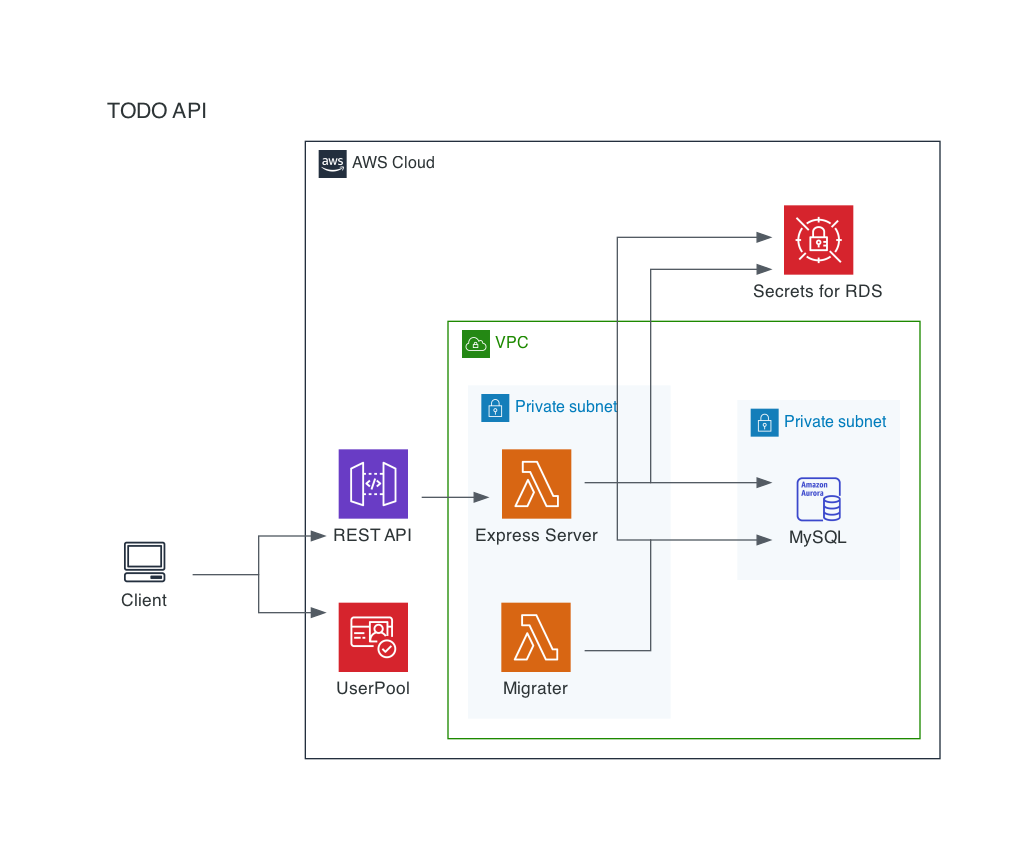
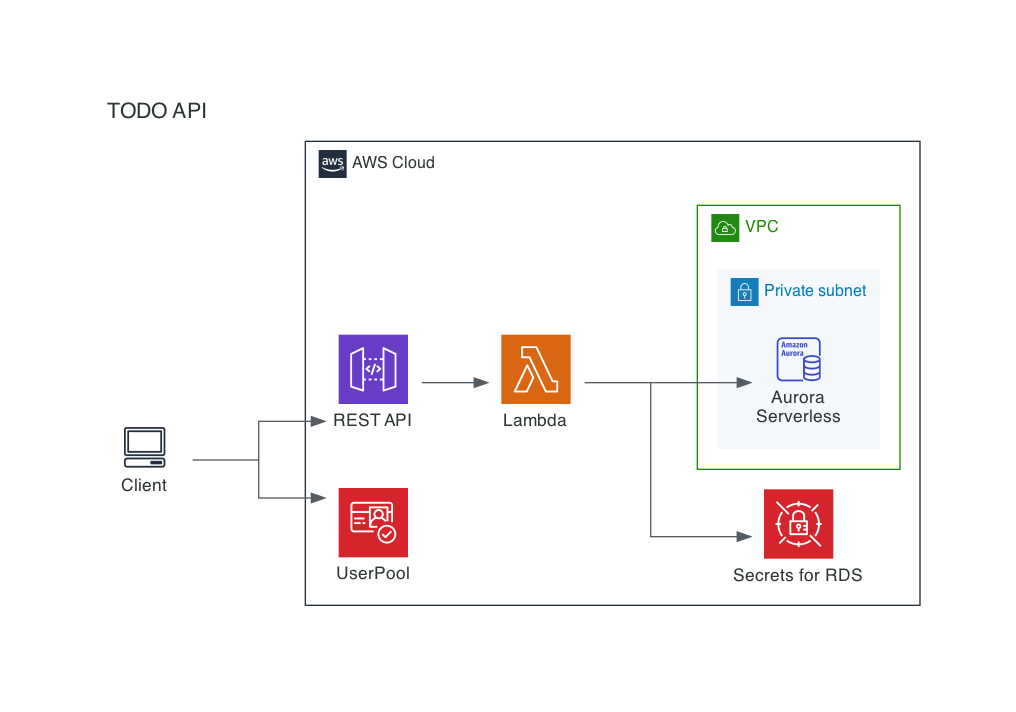
diagram: aurora serverless

diff --git a/packages/diagram/src/index.tsx b/packages/diagram/src/index.tsx
@@ -3,7 +3,6 @@ import { PNG, Diagram, GeneralIcon } from "rediagram";
 import {
   AWS,
   InvizAWS,
-  EC2,
   Lambda,
   VPC,
   RDS,
@@ -18,18 +17,15 @@ PNG(
       <AWS>
         <VPC>
           <VPC type="Private subnet">
-            <Lambda
-              name="Express Server"
-              upstream={["MySQL", "Secrets for RDS"]}
-            />
-            <Lambda name="Migrater" upstream={["MySQL", "Secrets for RDS"]} />
-          </VPC>
-          <VPC type="Private subnet">
-            <RDS name="MySQL" type="Aurora" />
+            <RDS name="Aurora\nServerless" type="Aurora" />
           </VPC>
         </VPC>
+        <Lambda
+          name="Lambda"
+          upstream={["Aurora\nServerless", "Secrets for RDS"]}
+        />
         <SecretsManager name="Secrets for RDS" />
-        <APIGateway name="REST API" upstream={["Express Server"]} />
+        <APIGateway name="REST API" upstream={["Lambda"]} />
         <Cognito name="UserPool" />
       </AWS>
       <GeneralIcon
